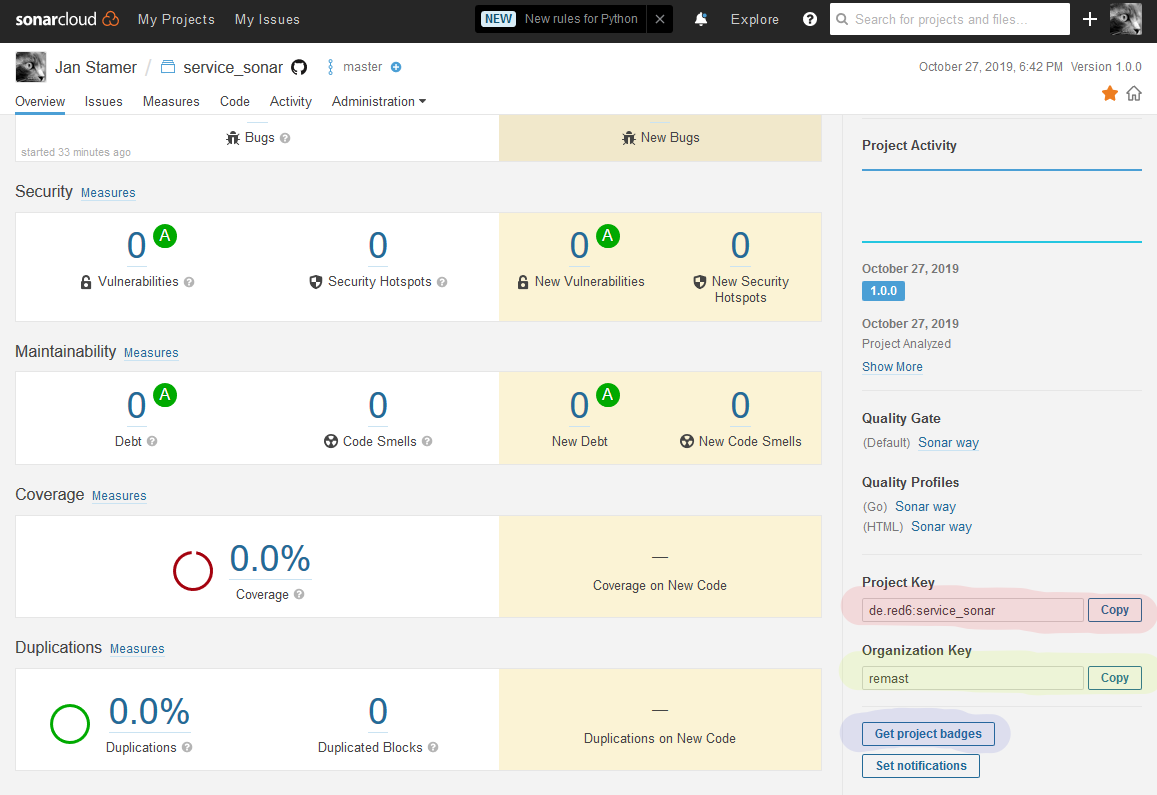
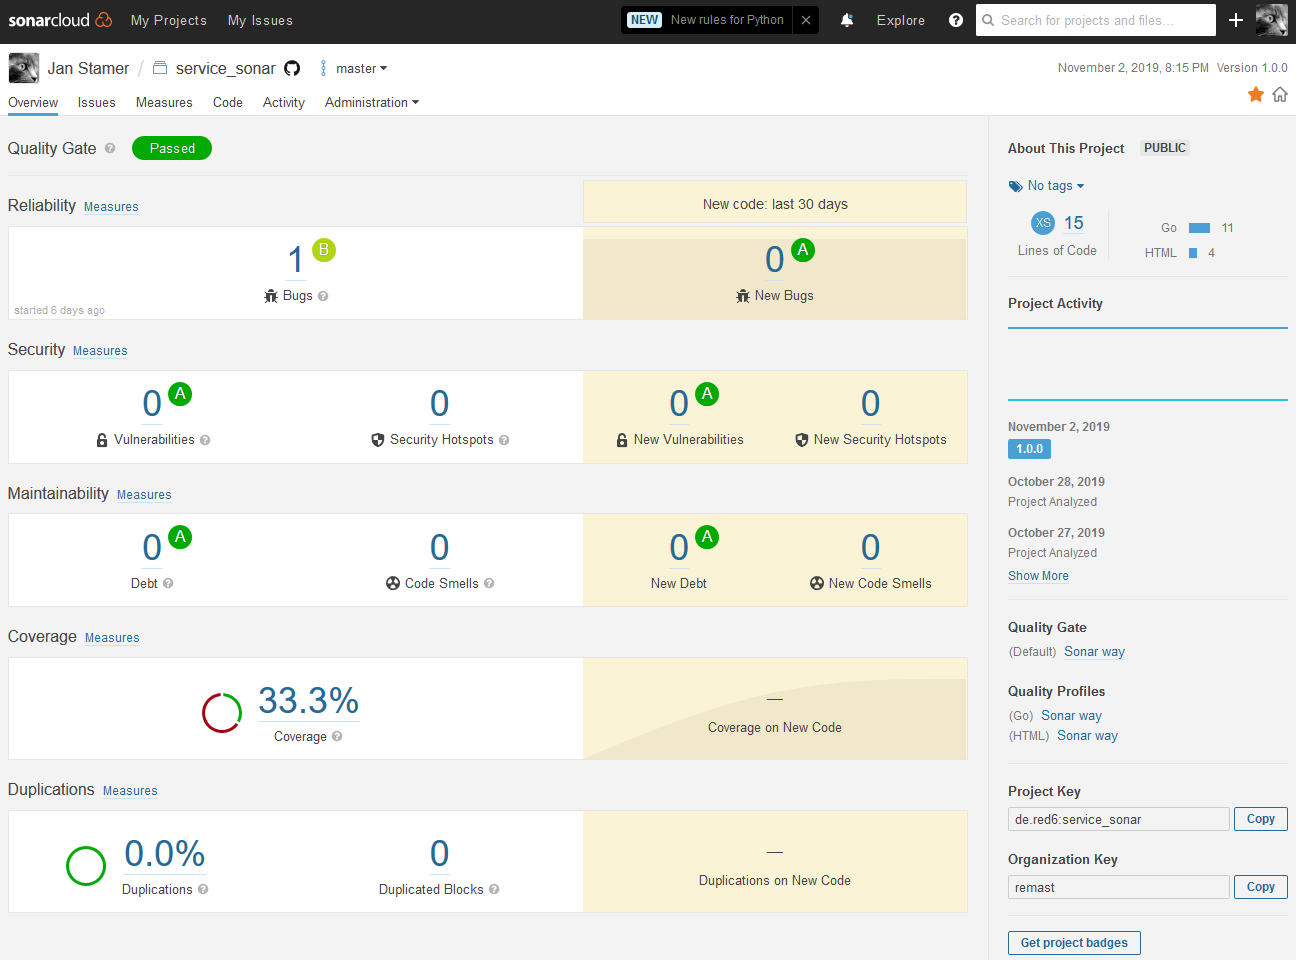
First draft gh sonarcloud.

diff --git a/articles/2019-11_Go-for-SonarCloud-with-Github-Actions/Go-for-SonarCloud-with-Github-Actions.md b/articles/2019-11_Go-for-SonarCloud-with-Github-Actions/Go-for-SonarCloud-with-Github-Actions.md
@@ -1,1 +1,212 @@
 # Go for SonarCloud with Github Actions
+
+Metrics like lines of code or test coverage are great to track and improve the quality of your source code. SonarQube can calculate these metrics for your project and track how they evolve over time. Since SonarQube natively supports Go it's a great fit to calculate metrics fo your Go project. 
+
+Learn the basics of analzing a Go project with SonarQube in my post [Go for SonarQube](https://medium.com/red6-es/go-for-sonarqube-ffff5b74f33a). In this post I'll show you how to use [Github Actions]() to analyze your Go project with [SonarCloud](https://sonarcloud.io). SonarCloud offers SonarQube as a service in the cloud.
+
+## Set up a Build with Github Actions
+
+We start by setting up a basic build pipeline for our Go project using Github Actions. We use the Github's official Go action [setup-go](https://github.com/actions/setup-go) for our build. So we create our pipeline for Github Actions in the file `.github/workflows/build.yml` with the following content:
+
+```yaml
+on: push
+name: Main Workflow
+jobs:
+  build:
+    name: Build, Test and Analyze
+    runs-on: ubuntu-latest
+    steps:
+      - name: Setup Go
+        uses: actions/setup-go@v1
+        with:
+          go-version: '1.13'
+      - name: Clone Repository
+        uses: actions/checkout@master
+      - name: Build and Test
+        run: make test
+```
+
+Now Github runs our pipeline on every push to the git repository. The pipeline set's up an Go environment, clones, the repository and finally builds and tests with `make test`. The tests also calculate the code coverage of the tests and save it in `bin/cov.out`.
+
+## Run the SonarCloud Analysis as Step
+Now we can add the SonarCloud analysis as step in our pipeline using the [sonarcloud-github-action](https://github.com/SonarSource/sonarcloud-github-action). But before that you need to register for SonarCloud. You can use your Github account to sign up. 
+
+The step to add the SonarCloud analysis is:
+
+```yaml
+      - name: Analyze with SonarCloud
+        uses: sonarsource/sonarcloud-github-action@master
+        env:
+          GITHUB_TOKEN: ${{ secrets.GITHUB_TOKEN }}
+          SONAR_TOKEN: ${{ secrets.SONAR_TOKEN }}
+```
+The step analyzes our Go code using the [sonar-scanner tool](https://docs.sonarqube.org/latest/analysis/scan/sonarscanner/).
+
+The SonarCloud Action needs two environment variables. The first one is `GITHUB_TOKEN` which is already provided by Github (see [Virtual environments for GitHub Actions](https://help.github.com/en/github/automating-your-workflow-with-github-actions/virtual-environments-for-github-actions)). The second one is the `SONAR_TOKEN` to authenticate the Github Action with SonarCloud. 
+
+To generate the access token `SONAR_TOKEN`  log into SonarCloud. Now click on your profile and then go to 'My Account' and then 'Security'. Or go directly to [account/security](https://sonarcloud.io/account/security/). Generate your access token for SonarCloud here. The access token is provided to the build pipeline as a secret environment variable. Go to your repository settings in Github. Then to 'Secrets' and add a new secret with name `SONAR_TOKEN` and use the generated SonarCloud access token as value, as shown below.
+
+![Github Repostory Secrets](github-action-secrets.png?raw=true)
+
+Our new pipeline to build, test and analyze the source code with SonarCloud is shown below.
+
+```yaml
+on: push
+name: Main Workflow
+jobs:
+  build:
+    name: Build, Test and Analyze
+    runs-on: ubuntu-latest
+    steps:
+      - name: Setup Go
+        uses: actions/setup-go@v1
+        with:
+          go-version: '1.13'
+      - name: Clone Repository
+        uses: actions/checkout@master
+      - name: Build and Test
+        run: make test
+      - name: Analyze with SonarCloud
+        uses: sonarsource/sonarcloud-github-action@master
+        env:
+          GITHUB_TOKEN: ${{ secrets.GITHUB_TOKEN }}
+          SONAR_TOKEN: ${{ secrets.SONAR_TOKEN }}
+```
+
+## Add Code Coverage to SonarCloud
+SonarCloud is able to analyze our source code. Yet it's not able to pick up the code coverage of our tests which is stored in the file `bin/cov.out`. And this is a bit tricky. The sonar-scanner looks for the code coverage in file `/home/runner/work/service_sonar/service_sonar/bin/cov.out`. That's where it is after the tests. The problem is the sonar-scanner tool is executed with docker and mounts the current directory as a volume like `docker run --workdir /github/workspace [...] -v "/home/runner/work/service_sonar/service_sonar":"/github/workspace"`. Within the docker run there is no file `/home/runner/work/service_sonar/service_sonar/bin/cov.out` but the path of that file within docker is actually `/github/workspace/bin/cov.out`. So we need to use that path as `sonar.go.coverage.reportPaths` in the SonarQube settings file `sonar-project.properties`. The full `sonar-project.properties` for Github Actions are shown below: 
+
+```
+# Github organization linked to sonarcloud
+sonar.organization=remast
+
+# Project key from sonarcloud dashboard for Github Action, otherwise pick a project key you like
+sonar.projectKey=de.red6:service_sonar
+
+sonar.projectName=service_sonar
+sonar.projectVersion=1.0.0
+
+sonar.sources=.
+sonar.exclusions=**/*_test.go,**/vendor/**,**/testdata/*
+ 
+sonar.tests=.
+sonar.test.inclusions=**/*_test.go
+sonar.test.exclusions=**/vendor/**
+sonar.go.coverage.reportPaths=/github/workspace/bin/cov.out
+```
+
+A live example of the pipeline can be found at [service_sonar](https://github.com/remast/service_sonar/tree/feature/gh-pipeline-simplify) (branch `feature/gh-pipeline-simplify`).
+
+## Our project in the SonarCloud Dashboard
+After the first SonarCloud analysis you can see the results on the SonarCloud project dashboard shown below.
+
+![SonarCloud Dashboard](go-sonarcloud-dashboard.png?raw=true)
+
+Check out dashboard of the sample project at https://sonarcloud.io/dashboard?id=de.red6%3Aservice_sonar.
+
+## Run the SonarCloud Analysis as Job
+Currently our pipeline has two main steps. The first step is build and test and the second step is the SonarCloud analysis. In big projects the SonarClould analysis can take up to several minutes. Since steps are executed synchronously one after the other the pipeline can only continue once SonarCloud is done analyzing. But what about our integration tests? Say we want to run some integration tests after the build. We want to give feedback about the integration tests as soon as possible. This means we don't want to wait for the SonarCloud analysis but proceed to the integration tests right after build and test. This is easily possible if we separate out the SonarCloud analysis as a separate job.
+
+Github Actions runs jobs in a workflow in parallel. So we can split our pipeline in three jobs. The first job is build and test. Then we have a second job to for the SonarCloud analysis and a third job that runs the integration tests. The job to build and test has to run first. After that both the job for the SonarCloud analysis and the integration tests can run in parallel. 
+
+### First pipeline draft
+The first draft of our improved pipeline shown below. It has the three jobs `build`, `sonarCloudTrigger` and `integrationTest`. The jobs `sonarCloudTrigger` and `integrationTest` both depend on the job build which is declared with `needs: build`.
+
+```yaml
+on: push
+name: Main Workflow
+jobs:
+  build:
+    name: Compile and Test
+    runs-on: ubuntu-latest
+    steps:
+      - name: Clone Repository
+        uses: actions/checkout@master
+      - name: Setup go
+        uses: actions/setup-go@v1
+        with:
+          go-version: '1.13'
+      - run: make test
+
+  sonarCloudTrigger:
+    needs: build
+    name: SonarCloud Trigger
+    runs-on: ubuntu-latest
+    steps:
+      - name: Clone Repository
+        uses: actions/checkout@master
+      - name: Analyze with SonarCloud
+        uses: sonarsource/sonarcloud-github-action@master
+        env:
+          GITHUB_TOKEN: ${{ secrets.GITHUB_TOKEN }}
+          SONAR_TOKEN: ${{ secrets.SONAR_TOKEN }}
+
+  integrationTest:
+    needs: build
+    name: Integration Test
+    runs-on: ubuntu-latest
+    steps:
+      - run: echo Should run integration tests.
+```
+The pipeline is executed the way we wanted. The job `build` runs first and after that `sonarCloudTrigger` and `integrationTest` run in parallel. It has only one flaw though. Do you see it? If you check the logs you will notice that SonarCloud is not able to read the code coverage of the unit tests. SonarCloud looks for the code coverage in the file `bin/cov.out`. This file is only present in the `build` job but not in the job `sonarCloudTrigger`. So we need to transfer the file from one job to the other.
+
+## Revised pipeline with Code Coverage
+To transfer the file `bin/cov.out` from the `build` job to the `sonarCloudTriggerJob` we'll use the actions [upload-artifact](https://github.com/actions/upload-artifact) and [download-artifact](https://github.com/actions/download-artifact). We add the action `upload-artifact` to the `build` job and `download-artifact` to the `sonarCloudTriggerJob` job like below:
+
+```yaml
+on: push
+name: Main Workflow
+jobs:
+  build:
+    name: Compile and Test
+    runs-on: ubuntu-latest
+    steps:
+      - name: Clone Repository
+        uses: actions/checkout@master
+      - name: Setup go
+        uses: actions/setup-go@v1
+        with:
+          go-version: '1.13'
+      - run: make test
+      - name: Archive code coverage results
+        uses: actions/upload-artifact@v1
+        with:
+          name: code-coverage-report
+          path: bin
+
+  sonarCloudTrigger:
+    needs: build
+    name: SonarCloud Trigger
+    runs-on: ubuntu-latest
+    steps:
+      - name: Clone Repository
+        uses: actions/checkout@master
+      - name: Download code coverage results
+        uses: actions/download-artifact@v1
+        with:
+          name: code-coverage-report
+          path: bin
+      - name: Analyze with SonarCloud
+        uses: sonarsource/sonarcloud-github-action@master
+        env:
+          GITHUB_TOKEN: ${{ secrets.GITHUB_TOKEN }}
+          SONAR_TOKEN: ${{ secrets.SONAR_TOKEN }}
+
+  integrationTest:
+    needs: build
+    name: Integration Test
+    runs-on: ubuntu-latest
+    steps:
+      - run: echo Should run integration tests.
+```
+A live example of the pipeline can be found at [service_sonar](https://github.com/remast/service_sonar/tree/master) (branch `master`).
+
+## Add a SonarCloud Badge
+We can add a SonarCloud badge to our project to quickly show the SonarCloud status of our project from within the readme. To create SonarCloud badge go to your SonarCloud project dashboard and click 'Get project badges'. You can choose between three badges as shown below.
+
+![SonarCloud Badges](sonarcloud-badges.png?raw=true)
+
+## Wrap Up
+Now you have learned how to analyse Go code using SonarCloud from a Github Action pipeline. By using a separate job for the SonarCloud analysis we are able to run the  time-consuming analysis in parallel to other important tasks like integration tests or deployment.
+
+All code is provided as a running example in the Github project [service_sonar](https://github.com/remast/service_sonar).
